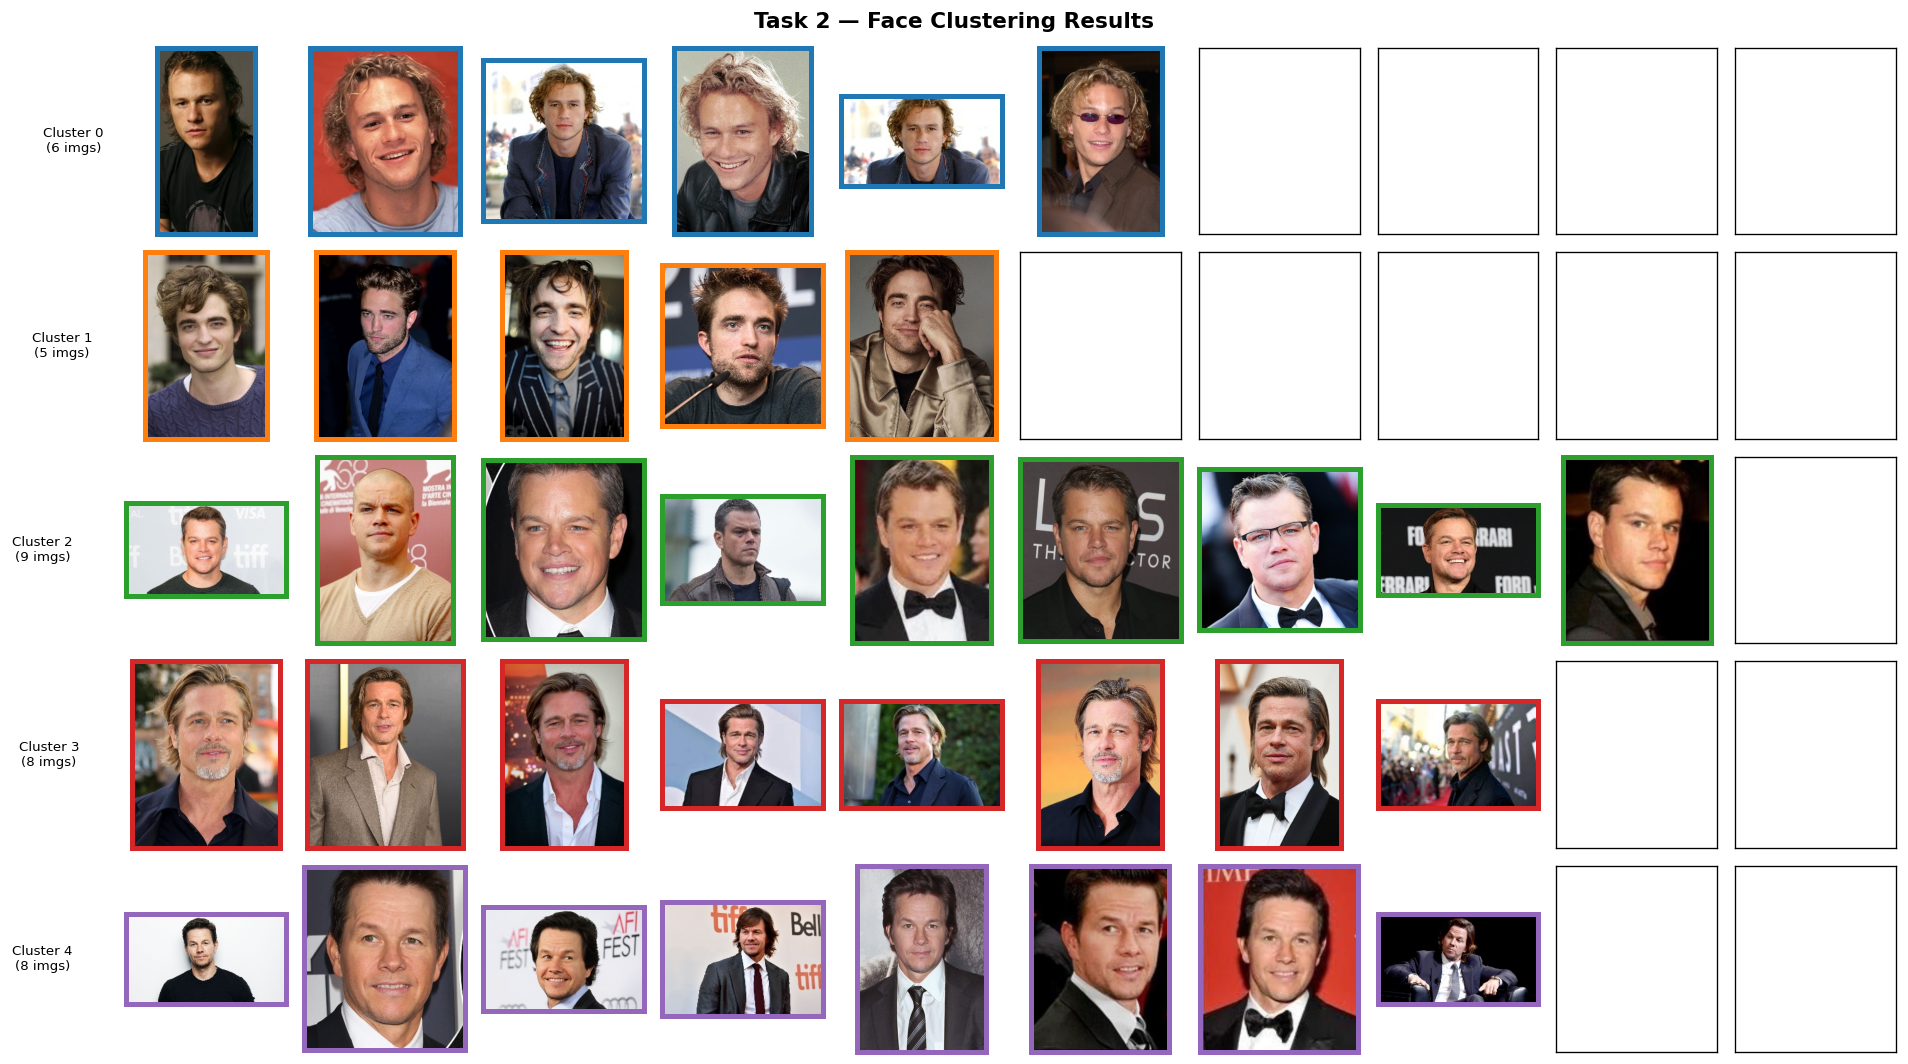
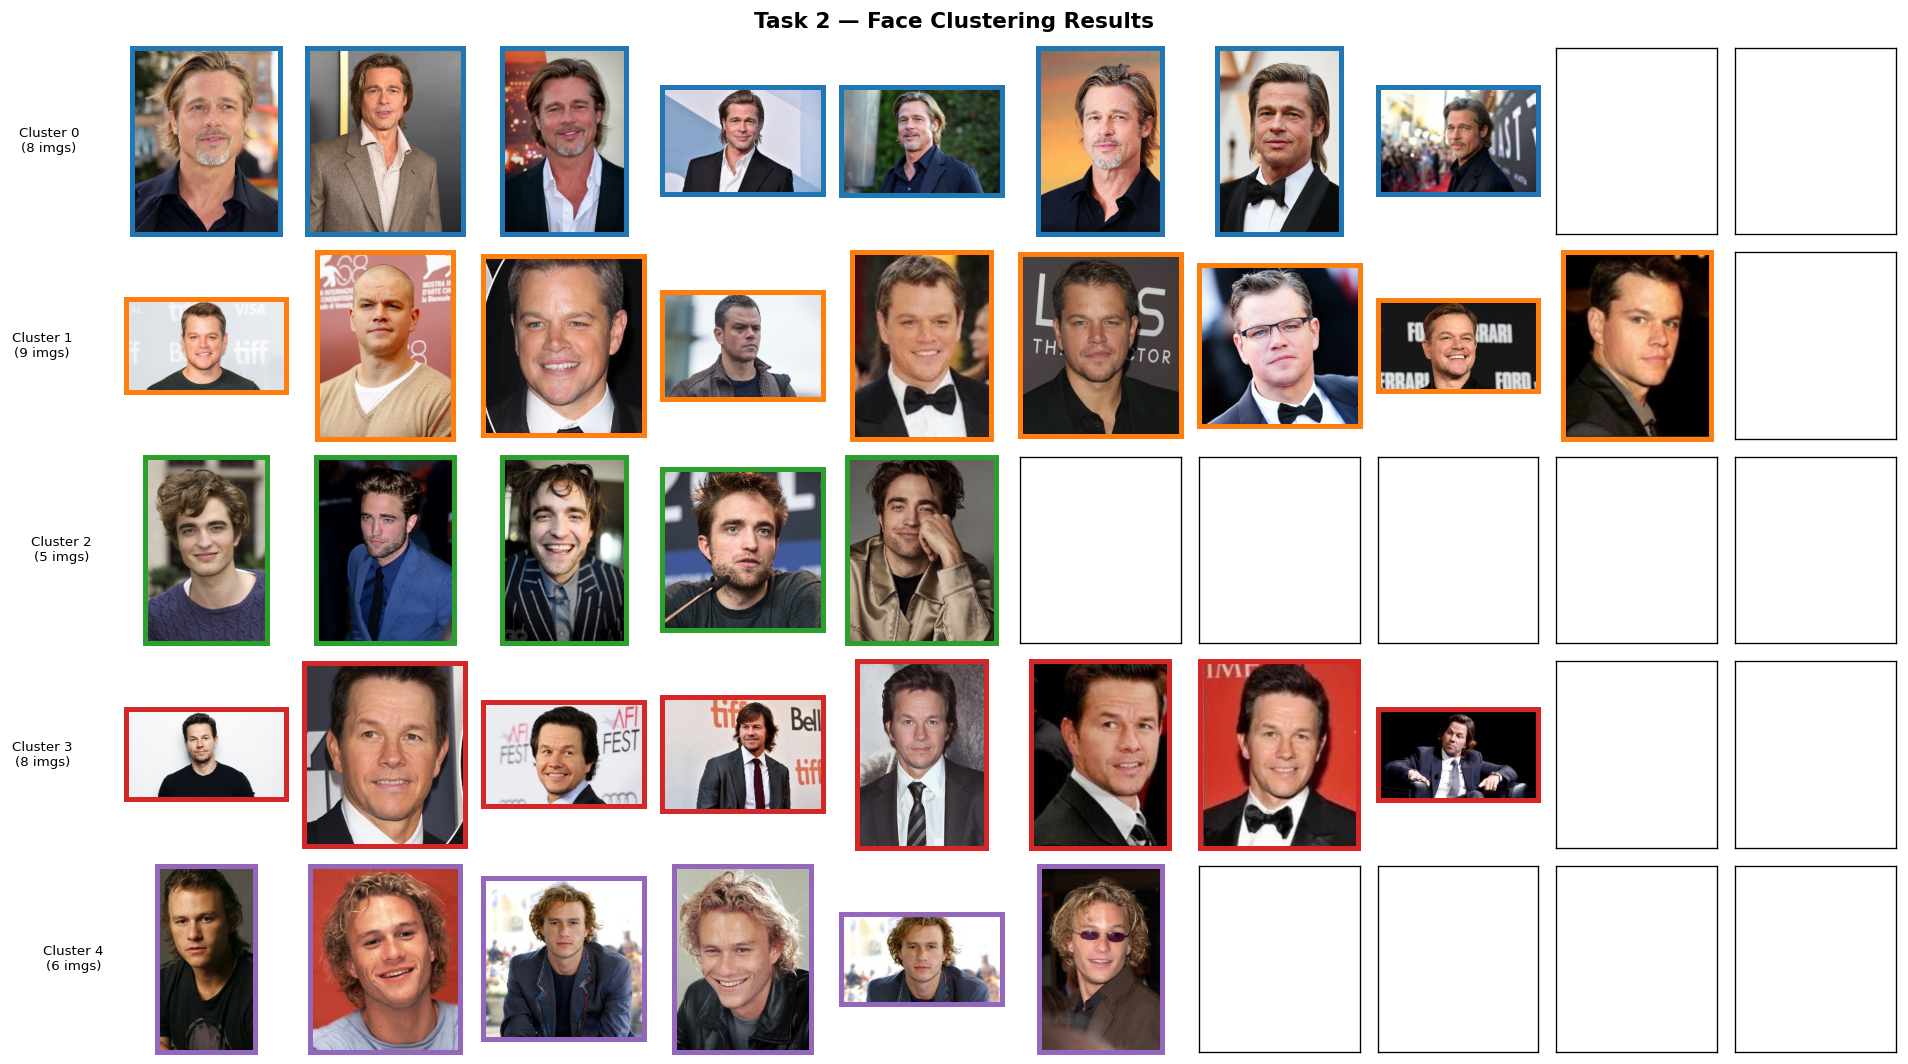
kmeans refinements

diff --git a/face.py b/face.py
@@ -97,18 +97,18 @@ def cluster_faces(imgs: Dict[str, torch.Tensor], K: int) -> List[List[str]]:
 
     for img_name in imgs:
         img = imgs[img_name]
-
         img_hwc = to_hwc_uint8(img)
         img_np = img_hwc.cpu().numpy()
 
-        # Each clustering image should contain one face, but be robust anyway.
-        face_locations = face_recognition.face_locations(img_np)
+        # Reuse Task 1 detector
+        detected_boxes = detect_faces(img)
+        face_locations = xywh_to_trbl(detected_boxes)
 
-        # If multiple faces are found, use the largest one.
+        # Keep only the largest face if multiple are found
         if len(face_locations) > 1:
             face_locations = [largest_box(face_locations)]
 
-        # Fallback: if no face is detected, use the whole image.
+        # Use whole image if no detection
         if len(face_locations) == 0:
             H = img_hwc.shape[0]
             W = img_hwc.shape[1]
@@ -116,7 +116,6 @@ def cluster_faces(imgs: Dict[str, torch.Tensor], K: int) -> List[List[str]]:
 
         encodings = face_recognition.face_encodings(img_np, face_locations)
 
-        # face_encodings can still fail on a fallback box; use a deterministic feature then.
         if len(encodings) == 0:
             feature = fallback_feature(img_hwc)
         else:
@@ -125,12 +124,15 @@ def cluster_faces(imgs: Dict[str, torch.Tensor], K: int) -> List[List[str]]:
         filenames.append(img_name)
         features_list.append(feature)
 
-    features = torch.stack(features_list, dim=0)  # N x D
-    labels = kmeans(features, K)
+    features = torch.stack(features_list, dim=0)   # N x D
+    features = normalize_features(features)
+    labels = kmeans_multi(features, K, num_restarts=5)
 
     for idx, label in enumerate(labels.tolist()):
         cluster_results[int(label)].append(filenames[idx])
-    
+
+    for cluster in cluster_results:
+        cluster.sort()    
     return cluster_results
 
 
@@ -142,6 +144,13 @@ But remember the above 2 functions are the only functions that will be called by
 # TODO: Your functions. (if needed)
 
 def to_hwc_uint8(img: torch.Tensor) -> torch.Tensor:
+    '''
+    Convert input image to H x W x 3 uint8 format.
+    Args:
+        img: input image tensor, can be in any shape and dtype.
+    Returns:
+        img_hwc: image tensor in H x W x 3 uint8 format.
+    '''
     if img.dim() != 3:
         return img
 
@@ -157,7 +166,13 @@ def to_hwc_uint8(img: torch.Tensor) -> torch.Tensor:
 
 
 def largest_box(face_locations) -> tuple:
-    # face_locations entries are (top, right, bottom, left)
+    """
+    Find the face box with the largest area.
+    Args:
+        face_locations: list of face boxes in (top, right, bottom, left) format.
+    Returns:
+        The face box with the largest area.
+    """
     best_box = face_locations[0]
     best_area = -1.0
 
@@ -175,20 +190,20 @@ def largest_box(face_locations) -> tuple:
 def fallback_feature(img_hwc: torch.Tensor) -> torch.Tensor:
     """
     Deterministic fallback feature when face_recognition fails to return an encoding.
-    Produces a 128-D torch feature using simple pooled RGB statistics.
+    Args:
+        img_hwc: input image in H x W x 3 uint8 format.
+    Returns:
+        A 128-dim feature vector derived from the image content.
     """
-    img_f = img_hwc.to(torch.float32) / 255.0  # H x W x 3
+    img_f = img_hwc.to(torch.float32) / 255.0
     H = img_f.shape[0]
     W = img_f.shape[1]
 
-    # Convert to C x H x W for pooling.
-    img_chw = img_f.permute(2, 0, 1).unsqueeze(0)  # 1 x 3 x H x W
+    img_chw = img_f.permute(2, 0, 1).unsqueeze(0)
 
-    # 6x7 pooled grid -> 3 * 6 * 7 = 126 dims
     pooled = torch.nn.functional.adaptive_avg_pool2d(img_chw, (6, 7))
     feat = pooled.reshape(-1)
 
-    # Add 2 extra global statistics to reach 128 dims.
     mean_val = img_f.mean()
     std_val = img_f.std()
     feat = torch.cat([feat, mean_val.view(1), std_val.view(1)], dim=0)
@@ -197,16 +212,29 @@ def fallback_feature(img_hwc: torch.Tensor) -> torch.Tensor:
 
 
 def pairwise_squared_dist(x: torch.Tensor, y: torch.Tensor) -> torch.Tensor:
-    # x: N x D, y: M x D -> N x M
+    """
+    Compute the squared Euclidean distance between all pairs of points.
+    Args:
+        x: torch.Tensor of shape N x D.
+        y: torch.Tensor of shape M x D.
+    Returns:
+        torch.Tensor of shape N x M with squared Euclidean distances.
+    """
     x_norm = (x * x).sum(dim=1, keepdim=True)
     y_norm = (y * y).sum(dim=1).unsqueeze(0)
     dist = x_norm + y_norm - 2.0 * (x @ y.t())
     return torch.clamp(dist, min=0.0)
 
 
-def init_centroids(features: torch.Tensor, K: int) -> torch.Tensor:
+def init_centroids(features: torch.Tensor, K: int, seed_offset: int = 0) -> torch.Tensor:
     """
-    Deterministic farthest-first initialization.
+    Initialize centroids for k-means clustering.
+    Args:
+        features: normalized feature matrix of shape N x D.
+        K: number of clusters.
+        seed_offset: restart-dependent offset for centroid initialization.
+    Returns:
+        Initial centroids of shape K x D using deterministic farthest-first selection.
     """
     N = features.shape[0]
     D = features.shape[1]
@@ -220,10 +248,8 @@ def init_centroids(features: torch.Tensor, K: int) -> torch.Tensor:
 
     centroids = torch.zeros((K, D), dtype=features.dtype)
 
-    # Start from the sample with largest norm.
-    norms = (features * features).sum(dim=1)
-    first_idx = int(torch.argmax(norms).item())
-    centroids[0] = features[first_idx]
+    start_idx = int(seed_offset % N)
+    centroids[0] = features[start_idx]
 
     min_dist = pairwise_squared_dist(features, centroids[0:1]).squeeze(1)
 
@@ -235,8 +261,111 @@ def init_centroids(features: torch.Tensor, K: int) -> torch.Tensor:
 
     return centroids
 
+def xywh_to_trbl(boxes: List[List[float]]) -> List[tuple]:
+    """
+    Convert bounding boxes from [x, y, width, height] format to (top, right, bottom, left) format.
+    Args:
+        boxes: list of boxes in [x, y, width, height] format.
+    Returns:
+        List of boxes in (top, right, bottom, left) format for face_recognition.
+    """
+    face_locations = []
+    for box in boxes:
+        x, y, w, h = box
+        top = int(round(y))
+        left = int(round(x))
+        bottom = int(round(y + h))
+        right = int(round(x + w))
+        face_locations.append((top, right, bottom, left))
+    return face_locations
 
-def kmeans(features: torch.Tensor, K: int, max_iters: int = 100) -> torch.Tensor:
+
+def normalize_features(features: torch.Tensor) -> torch.Tensor:
+    """
+    L2-normalize the input feature matrix.
+    Args:
+        features: feature matrix of shape N x D.
+    Returns:
+        L2-normalized features with the same shape.
+    """
+    norms = torch.norm(features, dim=1, keepdim=True)
+    norms = torch.clamp(norms, min=1e-8)
+    return features / norms
+
+
+def kmeans_objective(features: torch.Tensor, labels: torch.Tensor, centroids: torch.Tensor) -> float:
+    """
+    Compute the k-means objective function.
+    Args:
+        features: feature matrix of shape N x D.
+        labels: cluster assignment per sample, shape N.
+        centroids: centroid matrix of shape K x D.
+    Returns:
+        Sum of squared distances from samples to assigned centroids.
+    """
+    assigned = centroids[labels]
+    loss = ((features - assigned) ** 2).sum()
+    return float(loss.item())
+
+
+def kmeans_multi(features: torch.Tensor, K: int, num_restarts: int = 5) -> torch.Tensor:
+    """
+    Perform k-means clustering with multiple restarts.
+    Args:
+        features: normalized feature matrix of shape N x D.
+        K: number of clusters.
+        num_restarts: number of deterministic restarts with different offsets.
+    Returns:
+        Best label assignment (shape N) by minimum k-means objective.
+    """
+    best_labels = None
+    best_score = None
+
+    for restart_idx in range(num_restarts):
+        labels = kmeans(features, K, seed_offset=restart_idx)
+        centroids = compute_centroids(features, labels, K)
+        score = kmeans_objective(features, labels, centroids)
+
+        if best_score is None or score < best_score:
+            best_score = score
+            best_labels = labels.clone()
+
+    return best_labels
+
+def compute_centroids(features: torch.Tensor, labels: torch.Tensor, K: int) -> torch.Tensor:
+    """
+    Compute the centroids for each cluster.
+    Args:
+        features: feature matrix of shape N x D.
+        labels: cluster assignment per sample, shape N.
+        K: number of clusters.
+    Returns:
+        Centroid matrix of shape K x D.
+    """
+    D = features.shape[1]
+    centroids = torch.zeros((K, D), dtype=features.dtype)
+
+    for k in range(K):
+        mask = (labels == k)
+        if mask.any():
+            centroids[k] = features[mask].mean(dim=0)
+        else:
+            centroids[k] = features[0]
+
+    return centroids
+
+
+def kmeans(features: torch.Tensor, K: int, max_iters: int = 100, seed_offset: int = 0) -> torch.Tensor:
+    """
+    Perform k-means clustering with a single initialization.
+    Args:
+        features: normalized feature matrix of shape N x D.
+        K: number of clusters.
+        max_iters: maximum number of k-means iterations.
+        seed_offset: restart-dependent offset for centroid initialization.
+    Returns:
+        Cluster labels (shape N) with values in [0, K-1].
+    """
     N = features.shape[0]
 
     if N == 0:
@@ -245,8 +374,8 @@ def kmeans(features: torch.Tensor, K: int, max_iters: int = 100) -> torch.Tensor
     if K == 1:
         return torch.zeros((N,), dtype=torch.long)
 
-    centroids = init_centroids(features, K)
-    labels = torch.zeros((N,), dtype=torch.long)
+    centroids = init_centroids(features, K, seed_offset=seed_offset)
+    labels = torch.full((N,), -1, dtype=torch.long)
 
     for _ in range(max_iters):
         dists = pairwise_squared_dist(features, centroids)
@@ -254,8 +383,8 @@ def kmeans(features: torch.Tensor, K: int, max_iters: int = 100) -> torch.Tensor
 
         if torch.equal(new_labels, labels):
             break
-        labels = new_labels
 
+        labels = new_labels
         new_centroids = centroids.clone()
 
         for k in range(K):
@@ -263,7 +392,6 @@ def kmeans(features: torch.Tensor, K: int, max_iters: int = 100) -> torch.Tensor
             if mask.any():
                 new_centroids[k] = features[mask].mean(dim=0)
             else:
-                # Re-seed empty cluster with the point farthest from its assigned centroid.
                 assigned_centroids = centroids[labels]
                 point_errors = ((features - assigned_centroids) ** 2).sum(dim=1)
                 farthest_idx = int(torch.argmax(point_errors).item())
